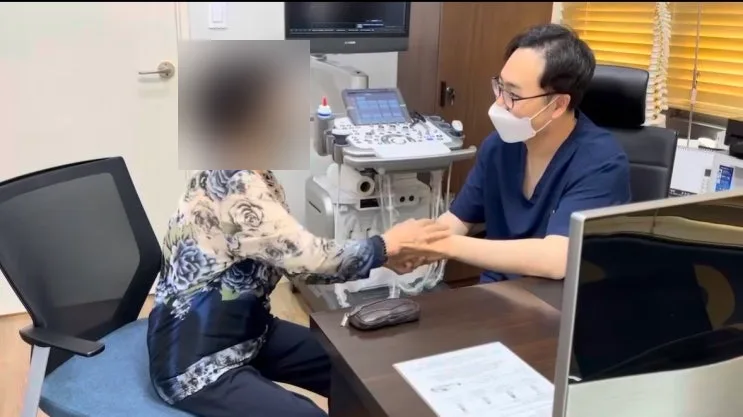
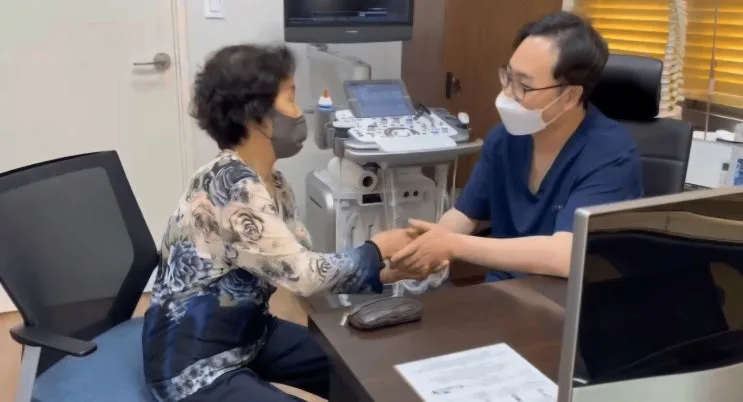
칼럼 공개 준비: 자다가 다리가 튈 때 공개 날짜 기록, 어르신 진료 사진을 얼굴 가리지 않은 원본으로 교체(원장님 지시)

diff --git a/src/pages/faq/after-other-herbal-medicine.html b/src/pages/faq/after-other-herbal-medicine.html
@@ -12,7 +12,7 @@
     <div class="prose">
       <p><strong>한 번의 결과만으로 '한약이 맞지 않는 몸'이라고 정하기는 이릅니다. 같은 병명이라도 증상을 키운 원인과 함께 있는 증상이 사람마다 달라서, 처방도 사람마다 달라야 하기 때문입니다.</strong></p>
       <p>저희 한의원에는 이미 여러 병원과 한의원을 거쳐 오시는 분이 많습니다. 그렇다고 앞서 받은 치료가 잘못되었다는 뜻은 아닙니다. 다만 같은 이명, 같은 하지불안증후군이라도 잠을 못 자서 시작된 분, 큰 수술 뒤에 시작된 분, 소화가 함께 무너진 분은 처방의 방향이 다릅니다. 저는 이것을 '불씨'라고 부르는데, 불씨가 다르면 꺼야 할 곳도 다릅니다.</p>
-      <figure class="figure"><img src="/images/columns/clinic-elderly-consultation.webp" alt="구월경희한의원 진료실에서 대표원장이 어르신 환자분의 두 손을 맞잡고 이야기를 나누는 사진. 환자분 얼굴은 흐리게 처리함" width="743" height="417" loading="lazy"><figcaption>그동안 거쳐 온 진단과 치료, 드셨던 약을 처음부터 다시 여쭙니다.</figcaption></figure>
+      <figure class="figure"><img src="/images/columns/clinic-elderly-consultation.webp" alt="구월경희한의원 진료실에서 대표원장이 어르신 환자분의 두 손을 맞잡고 이야기를 나누는 사진" width="743" height="402" loading="lazy"><figcaption>그동안 거쳐 온 진단과 치료, 드셨던 약을 처음부터 다시 여쭙니다.</figcaption></figure>
       <p>그래서 저는 정해진 몇 가지 처방에서 고르지 않고, 환자분의 증상과 생활, 검사 결과를 모두 모아 그분에게 맞는 처방 하나를 찾습니다. 앞서 드신 한약이 어떤 것이었는지, 드시는 동안 조금이라도 달라진 것이 있었는지도 그 단서가 됩니다.</p>
     </div>
   </section>

diff --git a/src/pages/tinnitus/elderly.html b/src/pages/tinnitus/elderly.html
@@ -13,7 +13,7 @@
       <p><strong>네, 줄어든 경우가 많습니다. 연세가 많다는 이유만으로 치료를 포기하실 필요는 없습니다. 70대 초반에 오신 분이 석 달 치료로 이명과 불면이 좋아지고, 치료를 마친 뒤 몇 달이 지나도록 이명이 다시 생기지 않은 경우도 있습니다.</strong></p>
       <p>"나이가 들수록, 이명을 앓은 기간이 길수록 낫기 어렵다"는 말을 듣고 아예 시도도 하지 않고 포기하시는 분들이 계십니다. 하지만 정확한 진단과 그 분께 맞는 치료가 이어지면 증상을 충분히 줄일 수 있고, 하루하루를 조금 더 편하게 지내시도록 도울 수 있습니다.</p>
       <figure class="figure">
-        <img src="/images/columns/clinic-elderly-consultation.webp" alt="구월경희한의원 진료실에서 대표원장이 어르신 환자분의 두 손을 맞잡고 이야기를 나누는 사진. 환자분 얼굴은 흐리게 처리함" width="743" height="417" loading="lazy">
+        <img src="/images/columns/clinic-elderly-consultation.webp" alt="구월경희한의원 진료실에서 대표원장이 어르신 환자분의 두 손을 맞잡고 이야기를 나누는 사진" width="743" height="402" loading="lazy">
         <figcaption>연세가 많은 분일수록 앓아 온 병과 드시는 약이 많아, 대표원장이 1시간 이상 직접 듣고 하나씩 정리합니다.</figcaption>
       </figure>
       <p>치료 목표는 세 가지입니다. 이명의 크기와 불편을 줄이고, 이명을 키우는 몸의 문제를 함께 회복하고, 치료를 마친 뒤에도 쉽게 재발하지 않는 상태를 만드는 것입니다. 소리가 덜 들리고 더 잘 주무시는 것부터 함께 확인해 갑니다.</p>

diff --git a/src/pages/restless-legs/lifelong-medication.html b/src/pages/restless-legs/lifelong-medication.html
@@ -24,7 +24,7 @@
       <p>도파민 효현제는 처음 쓸 때 절반 가까운 분이 효과를 봅니다. 그런데 4~6개월 이상 쓰면 증상이 더 일찍 시작되고, 더 강해지고, 다리에서 팔로 번지거나 밤에만 있던 증상이 낮에도 나타날 수 있습니다. 그러면 약을 바꾸고 늘리는 일이 반복되고, 약이 평생 따라다닐 것처럼 느껴집니다. 증강 현상이 의심될 때 무엇을 할지는 <a href="/restless-legs/dopamine-augmentation/">도파민제를 오래 먹으면 생기는 일 — 증강 현상</a>에 정리해 두었습니다.</p>
       <p>그래서 저는 하지불안증후군 치료의 시기를 '초기'라고 말씀드립니다. 도파민 효현제를 쓰기 전, 또는 증강 현상을 겪기 전에 오시면 치료가 훨씬 수월합니다. 이미 오래 드셨더라도 늦었다는 뜻은 아닙니다. 시간이 조금 더 걸릴 수 있다는 뜻입니다.</p>
       <figure class="figure" style="max-width:420px">
-        <img src="/images/columns/clinic-elderly-consultation.webp" alt="구월경희한의원 진료실에서 대표원장이 어르신 환자분의 두 손을 맞잡고 이야기를 나누는 사진. 환자분 얼굴은 흐리게 처리함" width="743" height="417" loading="lazy">
+        <img src="/images/columns/clinic-elderly-consultation.webp" alt="구월경희한의원 진료실에서 대표원장이 어르신 환자분의 두 손을 맞잡고 이야기를 나누는 사진" width="743" height="402" loading="lazy">
         <figcaption>드시던 약을 언제, 얼마나 줄일지는 대표원장이 경과를 직접 보며 함께 정합니다.</figcaption>
       </figure>
     </div>

diff --git a/src/pages/restless-legs/sleep-leg-jerks.html b/src/pages/restless-legs/sleep-leg-jerks.html
@@ -16,7 +16,7 @@
         <li>낮보다 밤에, 가만히 있을 때 더 불편하다</li>
         <li>잠든 뒤 다리가 튀거나 떨려 깨는 일이 잦다</li>
       </ul>
-      <figure class="figure" style="max-width:420px"><img src="/images/columns/clinic-elderly-consultation.webp" alt="구월경희한의원 진료실에서 대표원장이 어르신 환자분의 두 손을 맞잡고 이야기를 나누는 사진. 환자분 얼굴은 흐리게 처리함" width="743" height="417" loading="lazy"><figcaption>잠들기 전에 불편한지, 잠든 뒤에 깨는지를 나눠서 여쭙습니다.</figcaption></figure>
+      <figure class="figure" style="max-width:420px"><img src="/images/columns/clinic-elderly-consultation.webp" alt="구월경희한의원 진료실에서 대표원장이 어르신 환자분의 두 손을 맞잡고 이야기를 나누는 사진" width="743" height="402" loading="lazy"><figcaption>잠들기 전에 불편한지, 잠든 뒤에 깨는지를 나눠서 여쭙습니다.</figcaption></figure>
       <p>그래서 저는 잠을 못 주무신다는 분께 잠들기까지 걸리는 시간과 자다가 깨는 이유를 따로 여쭙습니다. 어디에서 잠이 끊어지는지에 따라 치료에서 무게를 둘 곳이 달라지기 때문입니다. 다리 이상 감각이 하지불안증후군인지부터 궁금하시다면 <a href="/restless-legs/crawling-sensation/">다리에 벌레가 기어가는 느낌, 하지불안증후군일까요?</a>를 먼저 읽어 보세요.</p>
     </div>
   </section>
